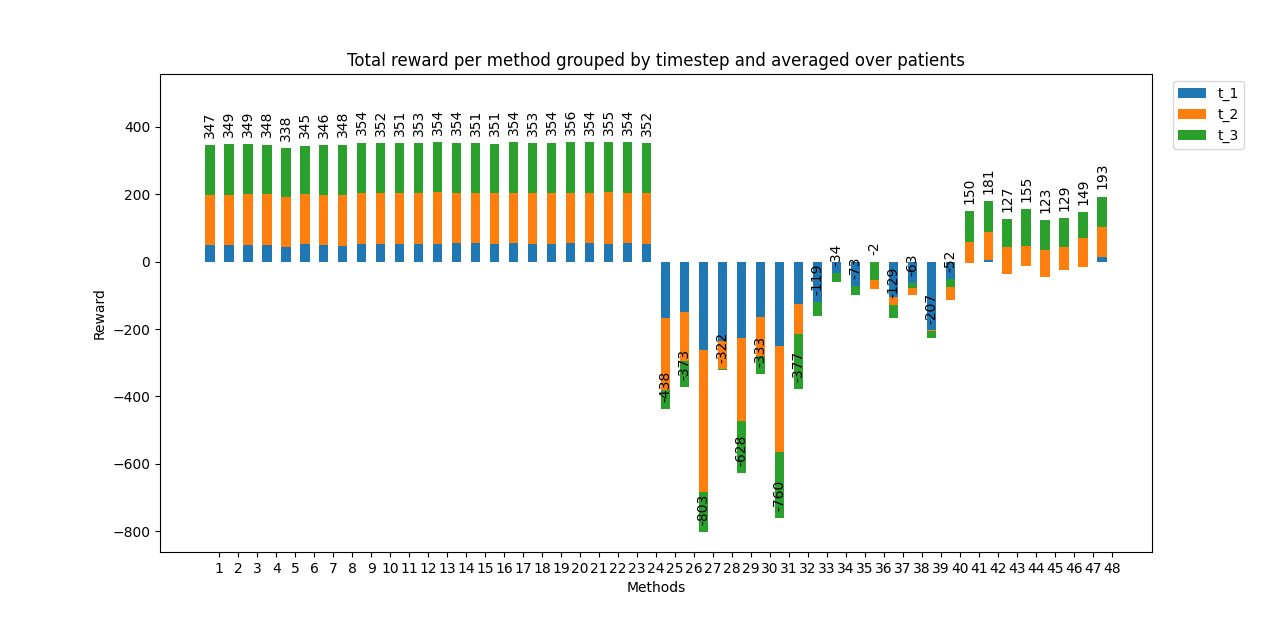
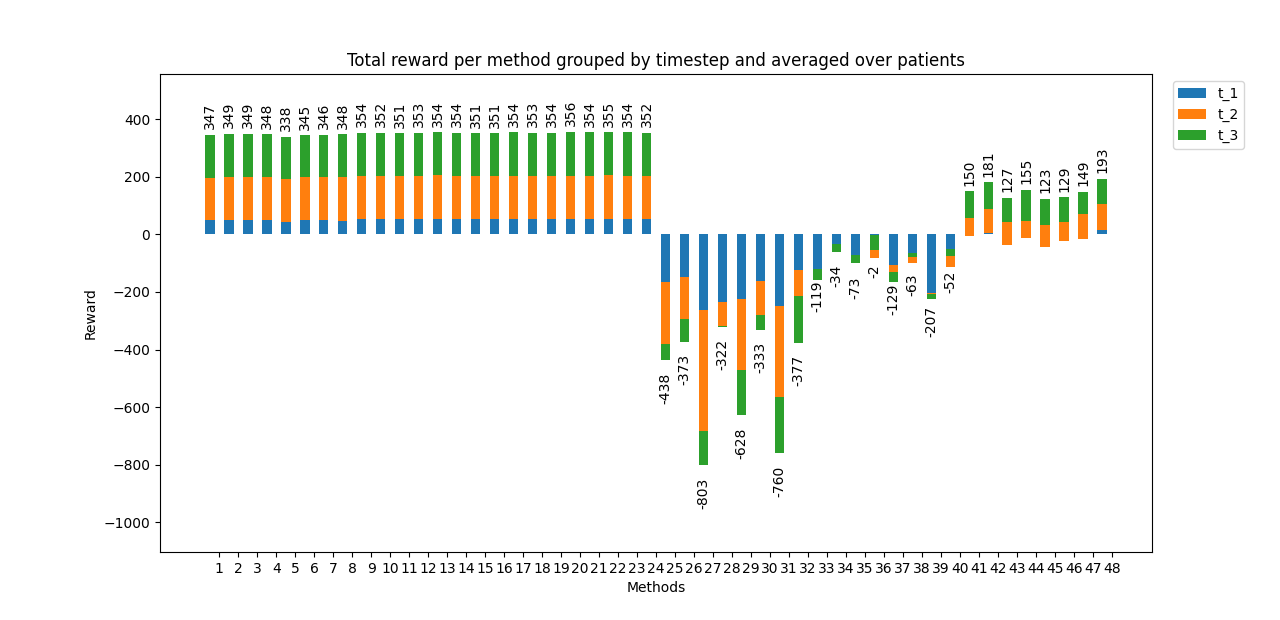
fix negative bar labels and set y-axis bottom limit.

diff --git a/mimic3/algos/utils.py b/mimic3/algos/utils.py
@@ -327,8 +327,9 @@ class Evaluation:
                        width, label=label, bottom=bottom)
             bottom += average_max_reward
 
-        y_offset = 30
+
         for method, sum_ in enumerate(vis_summary_dict['reward_sum'], 1):
+            y_offset = 30 if sum_ >0 else -140
             ax.text(method, sum_ + y_offset, round(sum_),
                     ha='center', rotation='vertical')
 
@@ -336,7 +337,7 @@ class Evaluation:
         ax.set_xticks(np.array(x_axis) + width, x_axis)
         ax.set_xlabel('Methods')
         ax.set_ylabel('Reward')
-        ax.set_ylim(top=max(vis_summary_dict['reward_sum'])+200)
+        ax.set_ylim(bottom=min(vis_summary_dict['reward_sum'])-300,top=max(vis_summary_dict['reward_sum'])+200)
         ax.set_title(
             "Total reward per method grouped by timestep and averaged over patients")
         # move legent outside of box
